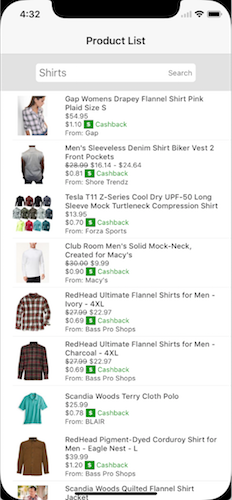
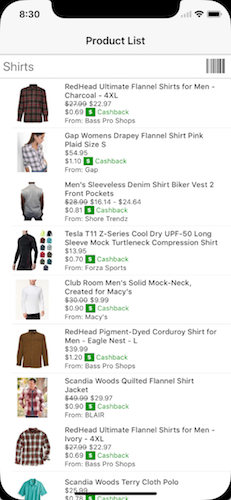
Added barcode scanner and redux-saga debounce

diff --git a/app/screens/ProductList.js b/app/screens/ProductList.js
@@ -8,8 +8,7 @@ import { ProductListItem, Separator } from "../components/List";
 import { MoneyIcon } from "../components/MoneyIcon";
 import {
   getInitialProductList,
-  getProductList,
-  setSearchTerm
+  getProductListFromSearchTerm
 } from "../actions/products";
 
 const styles = StyleSheet.create({
@@ -29,15 +28,16 @@ class ProductCategoryList extends Component {
     this.props.dispatch(getInitialProductList());
   }
 
-  handlePressSearch = () => {
-    this.props.dispatch(getProductList());
+  handleChangeText = text => {
+    this.props.dispatch(getProductListFromSearchTerm(text));
   };
 
-  handleTextChange = text => {
-    this.props.dispatch(setSearchTerm(text));
+  handlePressBarcode = () => {
+    this.props.navigation.navigate("BarcodeScanner");
   };
 
-  handlePress = item => {
+  handlePressListItem = item => {
+    console.log("ON PRESS PRODUCTT LISTITEM: ", item);
     const title = item.caption || "Product Detail";
     this.props.navigation.navigate("ProductDetail", { title, item });
   };
@@ -48,13 +48,15 @@ class ProductCategoryList extends Component {
         <StatusBar barStyle="default" tranlucent={false} />
         <SearchHeader
           onPress={this.handlePressSearch}
-          onChangeText={this.handleTextChange}
+          onChangeText={this.handleChangeText}
+          onPressBarcode={this.handlePressBarcode}
+          value={this.props.searchTerm}
         />
         <FlatList
           data={this.props.productList}
           renderItem={({ item }) => (
             <ProductListItem
-              onPress={() => this.handlePress(item)}
+              onPress={() => this.handlePressListItem(item)}
               moneyIcon={<MoneyIcon />}
               item={item}
             />
@@ -68,6 +70,7 @@ class ProductCategoryList extends Component {
 }
 
 const mapStateToProps = state => ({
+  searchTerm: state.products.searchTerm,
   productList: state.products.productSearch.searchItems
 });
 

diff --git a/app/config/sagas.js b/app/config/sagas.js
@@ -1,16 +1,23 @@
-import { takeEvery, call, put, select } from "redux-saga/effects";
+import { takeEvery, call, put, select, takeLatest } from "redux-saga/effects";
+import { delay } from "redux-saga";
 import {
   GET_INITIAL_PRODUCT_LIST,
   PRODUCT_LIST_RESULT,
   PRODUCT_LIST_ERROR,
-  GET_PRODUCT_LIST
+  GET_PRODUCT_LIST,
+  SET_SEARCH_TERM,
+  GET_PRODUCT_LIST_FROM_SEARCH_TERM
 } from "../actions/products";
 import {
   GET_PRODUCT_DETAIL,
   PRODUCT_DETAIL_RESULT,
   PRODUCT_DETAIL_ERROR
 } from "../actions/productDetail";
+
+// NOTE: import API_KEY here
 import { API_KEY } from "../../appconfig.json";
+
+const REQUEST_DELAY_TIME = 500;
 
 // Product List
 export const getProductList = term =>
@@ -31,6 +38,12 @@ const fetchProductList = function*(action) {
   } catch (error) {
     yield put({ type: PRODUCT_LIST_ERROR, error: error.message });
   }
+};
+
+const getProductListFromSearchTerm = function*({ searchTerm }) {
+  yield put({ type: SET_SEARCH_TERM, searchTerm });
+  yield call(delay, REQUEST_DELAY_TIME);
+  yield put({ type: GET_PRODUCT_LIST });
 };
 
 // Product Detail
@@ -56,9 +69,16 @@ const fetchProductDetail = function*(action) {
   }
 };
 
+// Root
 const rootSaga = function*() {
   yield takeEvery(GET_INITIAL_PRODUCT_LIST, fetchProductList);
   yield takeEvery(GET_PRODUCT_LIST, fetchProductList);
+  // will cancel current running handleInput task
+  // https://github.com/redux-saga/redux-saga/blob/master/docs/recipes/README.md
+  yield takeLatest(
+    GET_PRODUCT_LIST_FROM_SEARCH_TERM,
+    getProductListFromSearchTerm
+  );
   yield takeEvery(GET_PRODUCT_DETAIL, fetchProductDetail);
 };
 

diff --git a/app/components/Header/SearchHeader.js b/app/components/Header/SearchHeader.js
@@ -8,25 +8,32 @@ import {
 } from "react-native";
 import color from "color";
 import PropTypes from "prop-types";
+import { FontAwesome } from "@expo/vector-icons";
 
 import styles from "./styles";
 
 const SearchHeader = props => {
-  const { onPress } = props;
+  const { onPressBarcode } = props;
   const underlayColor = color(styles.$underlayColorBase).darken(
     styles.$underlayColorModifier
   );
   return (
     <View style={styles.searchHeaderContainer}>
       <View style={styles.searchContainer}>
-        <TextInput style={styles.searchInput} {...props} />
+        <TextInput
+          style={styles.searchInput}
+          defaultValue=""
+          placeholder={"Search"}
+          placeholderTextColor={styles.$inputText}
+          {...props}
+        />
         <TouchableHighlight
           style={styles.buttonHighlight}
-          onPress={onPress}
+          onPress={onPressBarcode}
           underlayColor={underlayColor}
         >
           <View style={styles.buttonContainer}>
-            <Text style={styles.searchText}>Search</Text>
+            <FontAwesome name="barcode" size={30} color="#000" />
           </View>
         </TouchableHighlight>
       </View>
@@ -35,7 +42,8 @@ const SearchHeader = props => {
 };
 
 SearchHeader.propTypes = {
-  onPress: PropTypes.func
+  onPressBarcode: PropTypes.func,
+  onChangeText: PropTypes.func
 };
 
 export default SearchHeader;

diff --git a/app/components/Header/styles.js b/app/components/Header/styles.js
@@ -4,37 +4,43 @@ import { StatusBar } from "react-native";
 const styles = EStyleSheet.create({
   $underlayColorBase: "$white",
   $underlayColorModifier: 0.1,
-
-  searchHeaderContainer: {
+  container: {
     height: 60,
+    backgroundColor: "$white",
+    justifyContent: "center",
+    alignItems: "center"
+  },
+  searchHeaderContainer: {
+    height: 40,
     backgroundColor: "$border",
     justifyContent: "center",
     alignItems: "center"
   },
   searchContainer: {
     flexDirection: "row",
-    height: 30,
+    height: 36,
     justifyContent: "center",
     alignItems: "center",
-    backgroundColor: "$white",
-    borderRadius: 5
+    backgroundColor: "$white"
   },
   buttonContainer: {
     flex: 1,
-    justifyContent: "center"
+    justifyContent: "center",
+    marginHorizontal: 10
   },
   buttonHighlight: {
     borderTopRightRadius: 5,
     borderBottomRightRadius: 5
   },
   searchInput: {
-    width: 200,
+    flex: 1,
     color: "$inputText",
-    marginHorizontal: 5
+    marginHorizontal: 5,
+    fontSize: 20
   },
   searchText: {
     color: "$inputText",
-    fontSize: 12,
+    fontSize: 16,
     marginHorizontal: 5
   },
   button: {

diff --git a/app/components/BarcodeScanner/BarcodeScanner.js b/app/components/BarcodeScanner/BarcodeScanner.js
@@ -1,0 +1,37 @@
+import React, { Component } from "react";
+import { StyleSheet, Text, View } from "react-native";
+import { BarCodeScanner, Permissions } from "expo";
+
+import { styles } from "./styles";
+
+class BarcodeScanner extends Component {
+  state = {
+    hasCameraPermission: null
+  };
+
+  async componentWillMount() {
+    const { status } = await Permissions.askAsync(Permissions.CAMERA);
+    this.setState({ hasCameraPermission: status === "granted" });
+  }
+
+  render() {
+    const { hasCameraPermission } = this.state;
+
+    if (hasCameraPermission === null) {
+      return <Text>Requesting for camera permission</Text>;
+    } else if (hasCameraPermission === false) {
+      return <Text>No access to camera</Text>;
+    } else {
+      return (
+        <View style={{ flex: 1 }}>
+          <BarCodeScanner
+            onBarCodeRead={this.props.onBarCodeRead}
+            style={StyleSheet.absoluteFill}
+          />
+        </View>
+      );
+    }
+  }
+}
+
+export { BarcodeScanner };

diff --git a/app/screens/BarcodeScannerScreen.js b/app/screens/BarcodeScannerScreen.js
@@ -1,0 +1,34 @@
+import React, { Component } from "react";
+import { StyleSheet, Text, View, Button } from "react-native";
+import { NavigationActions } from "react-navigation";
+import { connect } from "react-redux";
+
+import { Container } from "../components/Container";
+import { BarcodeScanner } from "../components/BarcodeScanner";
+import { getProductListFromSearchTerm } from "../actions/products";
+
+class BarcodeScannerScreen extends Component {
+  handleOnPress = () => {
+    this.goBack();
+  };
+
+  handleBarCodeRead = ({ type, data }) => {
+    this.goBack();
+    this.props.dispatch(getProductListFromSearchTerm(data));
+  };
+
+  goBack() {
+    this.props.navigation.dispatch(NavigationActions.back());
+  }
+
+  render() {
+    return (
+      <Container>
+        <BarcodeScanner onBarCodeRead={this.handleBarCodeRead} />
+        <Button title="Cancel" onPress={this.handleOnPress} />
+      </Container>
+    );
+  }
+}
+
+export default connect()(BarcodeScannerScreen);

diff --git a/app/actions/products.js b/app/actions/products.js
@@ -3,6 +3,8 @@ export const PRODUCT_LIST_RESULT = "PRODUCT_LIST_RESULT";
 export const PRODUCT_LIST_ERROR = "PRODUCT_LIST_ERROR";
 export const SET_SEARCH_TERM = "SET_SEARCH_TERM";
 export const GET_PRODUCT_LIST = "GET_PRODUCT_LIST";
+export const GET_PRODUCT_LIST_FROM_SEARCH_TERM =
+  "GET_PRODUCT_LIST_FROM_SEARCH_TERM";
 
 export const getInitialProductList = () => ({
   type: GET_INITIAL_PRODUCT_LIST
@@ -15,4 +17,9 @@ export const setSearchTerm = searchTerm => ({
 
 export const getProductList = () => ({
   type: GET_PRODUCT_LIST
+});
+
+export const getProductListFromSearchTerm = searchTerm => ({
+  type: GET_PRODUCT_LIST_FROM_SEARCH_TERM,
+  searchTerm
 });

diff --git a/app/config/routes.js b/app/config/routes.js
@@ -4,6 +4,8 @@ import { StackNavigator } from "react-navigation";
 
 import ProductList from "../screens/ProductList";
 import ProductDetail from "../screens/ProductDetail";
+import BarcodeScannerScreen from "../screens/BarcodeScannerScreen";
+
 import { ImageHeader } from "../components/Header";
 
 const ProductListStack = StackNavigator({
@@ -25,11 +27,13 @@ export default StackNavigator(
   {
     ProductList: {
       screen: ProductListStack
+    },
+    BarcodeScanner: {
+      screen: BarcodeScannerScreen
     }
   },
   {
     mode: "modal",
-    cardStyle: { paddingTop: StatusBar.currentHeight },
     headerMode: "none"
   }
 );

diff --git a/app/components/BarcodeScanner/styles.js b/app/components/BarcodeScanner/styles.js
@@ -1,0 +1,11 @@
+import EStyleSheet from "react-native-extended-stylesheet";
+
+const styles = EStyleSheet.create({
+  container: {
+    flex: 1,
+    justifyContent: "center",
+    alignItems: "center"
+  }
+});
+
+export { styles };

diff --git a/app/components/BarcodeScanner/index.js b/app/components/BarcodeScanner/index.js
@@ -1,0 +1,2 @@
+export * from "./BarcodeScanner";
+export * from "./styles";

diff --git a/README.md b/README.md
@@ -1,24 +1,30 @@
 A React Native app for iOS that uses [shop.com api](http://developer.shop.com/)
 to:
 
-1. do general searches using user input
-2. do specific product searches from the results of the general search
+1. Search Term: http://api.shop.com/sites/v1/search/Term
+2. Search Product: http://api.shop.com/stores/v1/products
 
 RUN: Download Expo and view this project from here:
 [https://expo.io/@tgdevjs/tgshop](https://expo.io/@tgdevjs/tgshop)\
 Scaning the QR code or Typing exp://exp.host/@tgdevjs/tgshop inside of Expo will
-open this experience. ![expo qr code](readmeAssets/expo.png)
+open this experience. ![expo qr code](readmeAssets/20171127_expo.png)
 
-BUILD: This project was bootstrapped with
-[Create React Native App](https://github.com/react-community/create-react-native-app).
-Below you'll find information about performing common tasks.\
-The most recent version of this guide is available [here](https://github.com/react-community/create-react-native-app/blob/master/react-native-scripts/template/README.md).
+BUILD:
+
+* Must provide API_KEY inside app/config/saga.js
+
+* This project was bootstrapped with
+  [Create React Native App](https://github.com/react-community/create-react-native-app).
+  Below you'll find information about performing common tasks.\
+  The most recent version of this guide is available [here](https://github.com/react-community/create-react-native-app/blob/master/react-native-scripts/template/README.md).
 
 ![ProductList](readmeAssets/productList.png)
 ![ProductDetail](readmeAssets/productDetail.png)
 
 Features:
 
+* Shop.com API for Search and Product
+* Search with Barcode Scanner
 * Redux
 * Redux Saga
 * React Navigation
